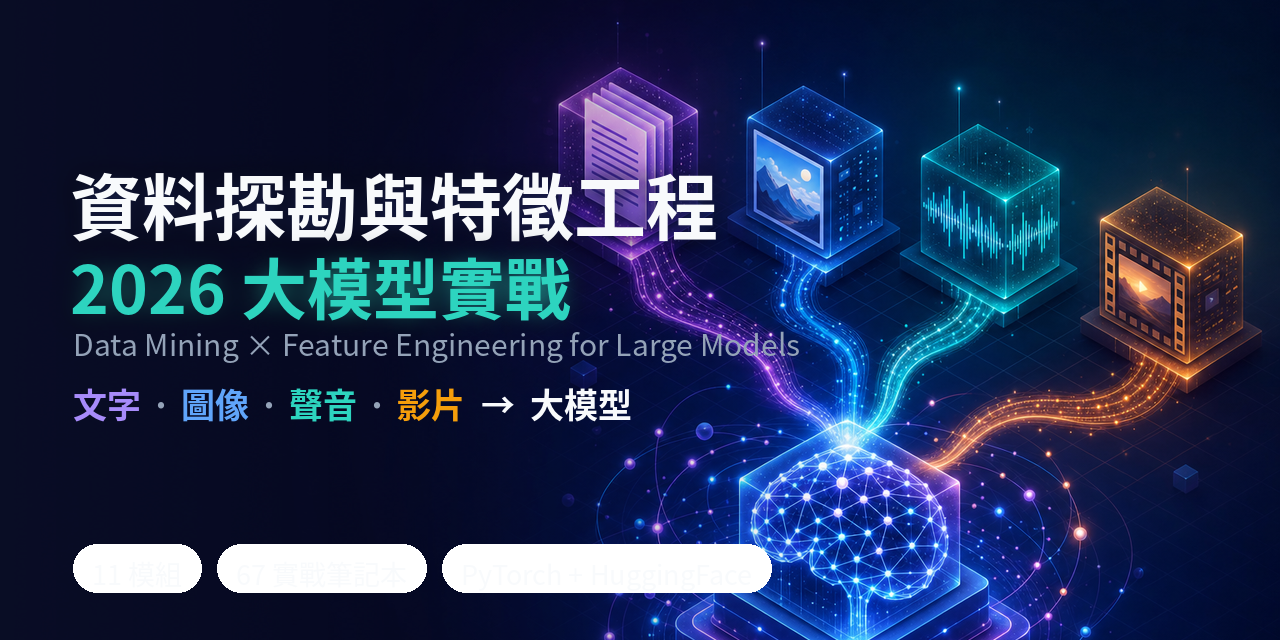
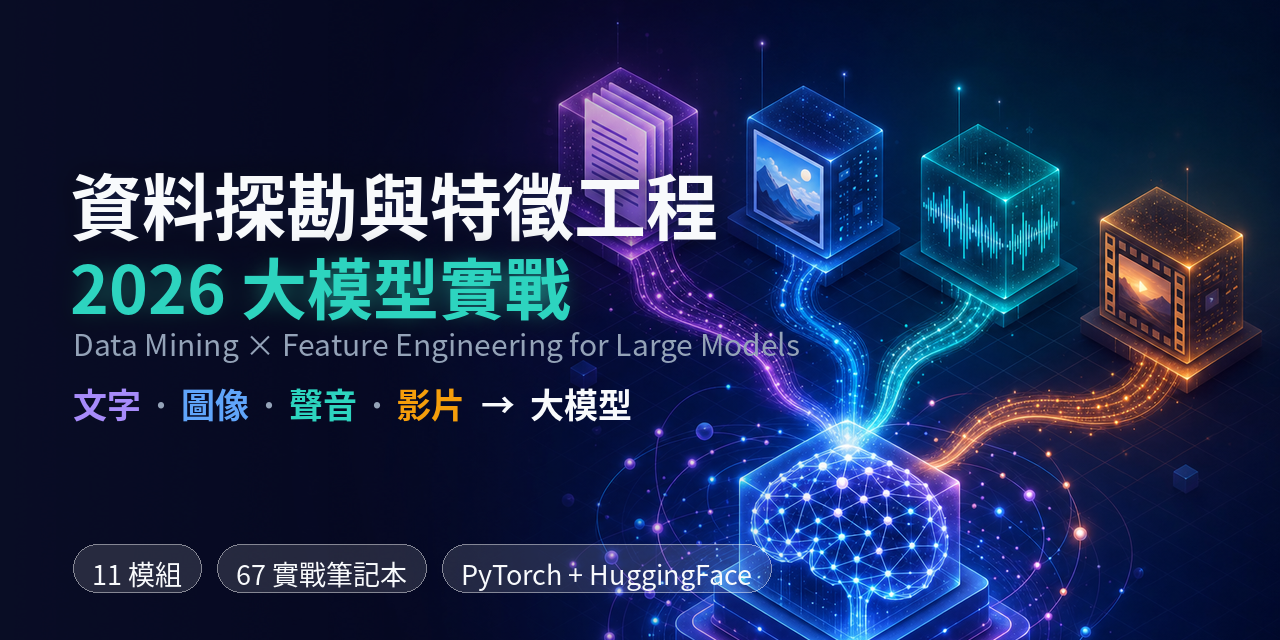
fix(readme): 修正封面統計膠囊白底白字看不見
WHY：hero.png / og-cover.png 底部統計膠囊呈現純白塊、文字消失，封面看起來像沒生成好。

WHAT：make_assets.py 新增 draw_pills——半透明膠囊改畫在透明圖層後 alpha_composite、文字以不透明白疊上；修正原本在 RGBA 圖直接畫半透明白、convert RGB 後變實心白塊導致白字隱形的 PIL bug。重生 hero.png 與 og-cover.png。

IMPACT：純視覺修正；showcase.gif 不受影響、未變更。

Changed region(s): [[0.0312, 0.8438, 0.625, 0.9375]]

diff --git a/assets/make_assets.py b/assets/make_assets.py
@@ -83,18 +83,30 @@ def compose_banner(W, H, title_y, t1_sz, t2_sz, sub_sz, pill_sz):
     d.text((fx + 6, y), "→  大模型", font=fpill, fill=WHITE + (255,))
     return base, d, y
 
+def draw_pills(base, items, sf, x0, y0, ph, padx=17):
+    """半透明膠囊畫在透明圖層後 alpha_composite（正確混色），文字再以不透明白疊上。
+    修正原本在 RGBA 圖上直接畫半透明白、convert RGB 後變實心白塊、白字看不到的 bug。"""
+    measure = ImageDraw.Draw(base)
+    layer = Image.new("RGBA", base.size, (0, 0, 0, 0))
+    ld = ImageDraw.Draw(layer)
+    pos, x = [], x0
+    for s in items:
+        w = text_w(measure, s, sf) + padx * 2
+        ld.rounded_rectangle([x, y0, x + w, y0 + ph], radius=ph // 2,
+                             fill=(255, 255, 255, 32), outline=(255, 255, 255, 130), width=1)
+        pos.append(x); x += w + 16
+    base.alpha_composite(layer)
+    td = ImageDraw.Draw(base)
+    ty = y0 + (ph - sf.size) // 2 - 1
+    for x, s in zip(pos, items):
+        td.text((x + padx, ty), s, font=sf, fill=WHITE + (255,))
+
 # ---------- HERO 1280x460 ----------
 W, H = 1280, 460
 hero, d, y = compose_banner(W, H, title_y=64, t1_sz=62, t2_sz=58, sub_sz=27, pill_sz=30)
 # 底部統計列（膠囊）
 stats = ["11 模組", "67 實戰筆記本", "PyTorch + HuggingFace", "真實資料 · CPU 可跑"]
-sf = font(24, bold=False); sx = 73; sy = H - 66
-for s in stats:
-    tw = text_w(d, s, sf)
-    d.rounded_rectangle([sx, sy, sx + tw + 34, sy + 42], radius=21,
-                        fill=(255, 255, 255, 18), outline=(255, 255, 255, 60), width=1)
-    d.text((sx + 17, sy + 8), s, font=sf, fill=WHITE + (230,))
-    sx += tw + 34 + 14
+draw_pills(hero, stats, font(24, bold=False), 73, H - 66, 42)
 hero.convert("RGB").save(f"{ASSETS}/hero.png")
 print("✓ assets/hero.png", hero.size)
 
@@ -102,13 +114,7 @@ print("✓ assets/hero.png", hero.size)
 W, H = 1280, 640
 og, d, y = compose_banner(W, H, title_y=150, t1_sz=72, t2_sz=66, sub_sz=30, pill_sz=34)
 stats = ["11 模組", "67 實戰筆記本", "PyTorch + HuggingFace"]
-sf = font(27, bold=False); sx = 73; sy = H - 96
-for s in stats:
-    tw = text_w(d, s, sf)
-    d.rounded_rectangle([sx, sy, sx + tw + 38, sy + 48], radius=24,
-                        fill=(255, 255, 255, 18), outline=(255, 255, 255, 60), width=1)
-    d.text((sx + 19, sy + 9), s, font=sf, fill=WHITE + (230,))
-    sx += tw + 38 + 16
+draw_pills(og, stats, font(27, bold=False), 73, H - 96, 48, padx=19)
 og.convert("RGB").save(f"{ASSETS}/og-cover.png")
 print("✓ assets/og-cover.png", og.size)
 